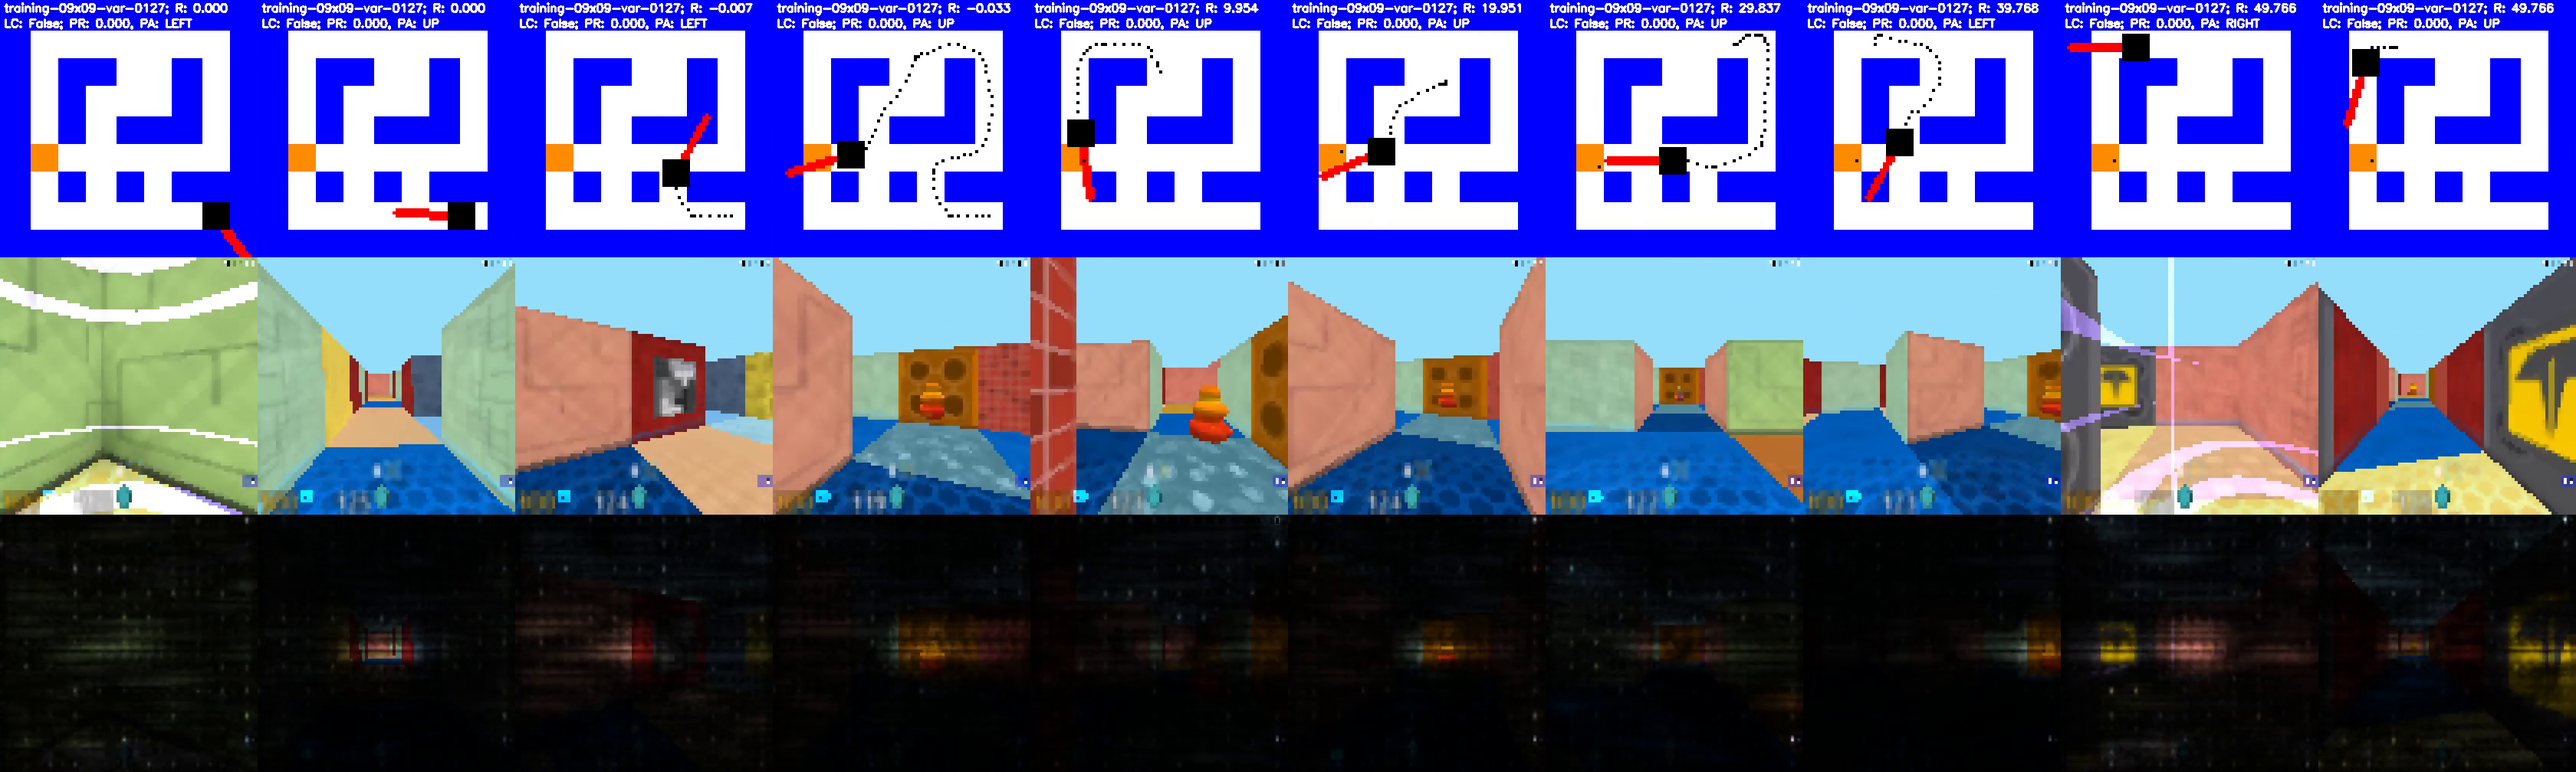
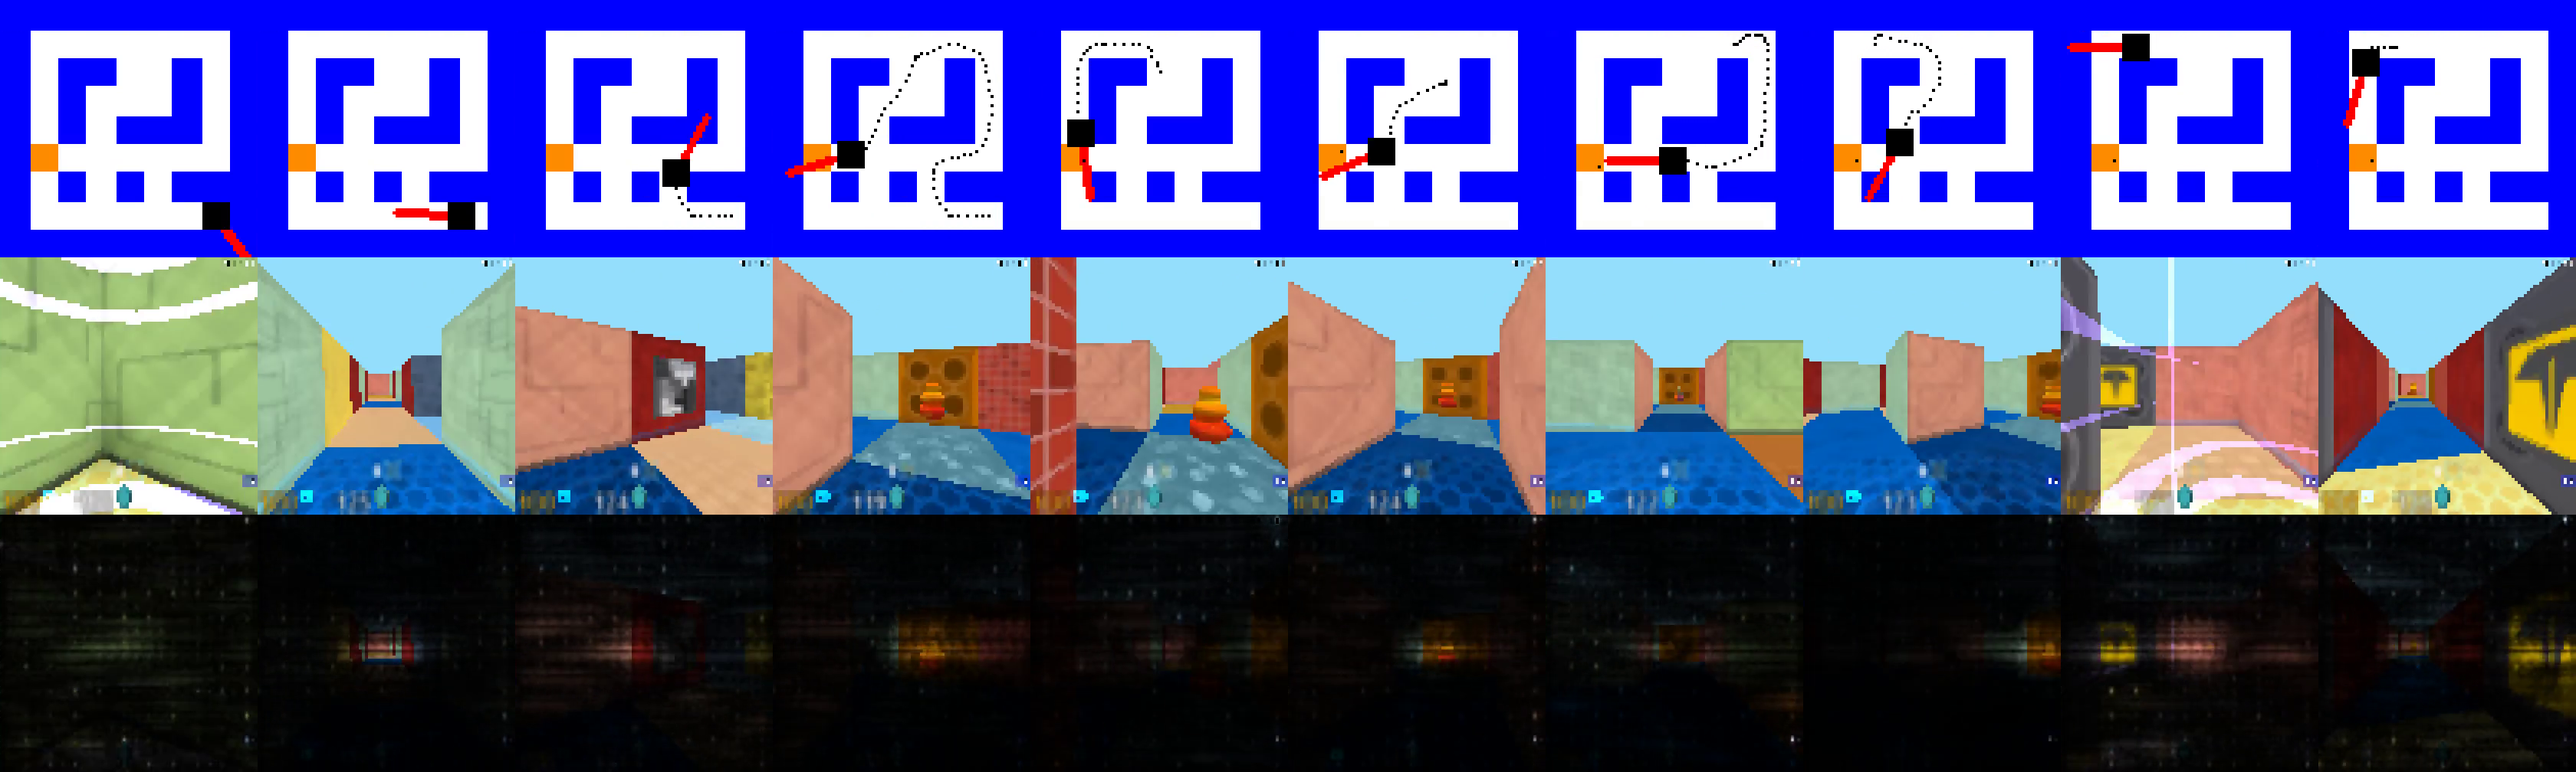
remove text description on top of visualization by overriding it with blue color.

Changed region(s): [[0.0, 0.0, 1.0, 0.0615]]

diff --git a/gennav/experiments.tex b/gennav/experiments.tex
@@ -72,27 +72,39 @@ paths to reach the goal. The qualitative results for the evaluation are shown
 in Fig~\ref{fig:planning-qualitative}.
 
 \subsubsection{Square map}
-A square map is the simplest possible map with two paths to the goal.
-% 2. We start with a simple square map. The map is shown in Fig .
 % 3. In the square map, we find that the path taken is in the
 %    direction of pose initialization. the visualization of path taken is
 %    shown in Fig. . the correlation with of path taken with initial pose
 %    is shown in Fig. . The correlation with shortest path is shown in
 %    Fig. . Hence, the algorithm instead of shortest path planning takes the
 %    the direction in which it is initialized.
-% 
-\subsubsection{Wrench map}
-
+A square map is the simplest possible map with two paths to the goal.
+We evaluate the algorithm trained on 1000 random maps on square map.
+We observe that the agent greedily moves in the direction of
+initialization.
+This may be because of the initial learning which is
+motivated by small rewards of getting apples.
+We compute the percentage of times the agent takes the shortest path over a trial of 100 episodes.
+We find the agent takes the shortest path only $50.4$\% ($\pm 12.8$\%) of the times which is not better than random.
+% Quantitative result taken from:
+% exp-results/planning-09x09-0002/gen_stats_latest_loaded-from-training-1000_acting-on-planning-09x09-0002_vars-True_apples-0.json
+\subsubsection{Wrench map and Goal map}
 % 2.2 To eliminate the correlation with initial orientation, we start
 %     with wrench map. The spawn point is guaranteed to be initialized in
 %     the handle of the wrench. Hence, the decision point is the only
 %     junction in the map where the algorithm either decides to take a
 %     left or a right.
 %     We find no correlation between shortest path and the direction taken. 
-
-\subsubsection{Goal map}
+To eliminate the dependence with initial orientation, we evaluate the algorithm on wrench map as shown in Fig~\ref{fig:planning-qualitative}. We fix in the spawn point at the bottom of the tail so that shortest path is independent of the spawn orientation.
+The decision about the shortest path is made at the junction where the agent can either chose to go left or right.
+We find that the agent is taking shortest path only $32.9$\% ($\pm 25.1$\%) of the times which is again to better than random.
+% Quantitative result taken from:
+% exp-results/planning-09x09-0004/gen_stats_latest_loaded-from-training-1000_acting-on-planning-09x09-0004_vars-True_apples-0.json
 
 % Goal map provides a similar independence from starting orientation
 % but the penalty for choosing the wrong path is much higher than the
 % wrench map. 
+Similarly, goal map (Fig~\ref{fig:planning-qualitative}) provides decision point indpendent of the initial orientation, but it penalizes wrong path more than the wrench map $42.6$\% ($\pm 35.1$\%) of the times which is again no better than random.
+% Quantitative result taken from:
+% exp-results/planning-09x09-0006/gen_stats_latest_loaded-from-training-1000_acting-on-planning-09x09-0006_vars-True_apples-0.json
 % 

diff --git a/gennav/py/process.py b/gennav/py/process.py
@@ -365,12 +365,16 @@ def video_to_snapshot(source
                           , "00:00:19.20"
                           , "00:00:20.12"
                           , "00:00:20.70"
-                      ]):
+                      ]
+                      , text_header_height = 40
+                      , blue = [255, 0, 0]):
     import cv2
     total_img = []
     for ts in timestamps:
         img = get_img_from_video(source, ts)
         width = img.shape[1]
+        # override first 40 rows with blue color
+        img[:text_header_height, :width/3] = blue
         total_img.append(
             np.vstack((img[:, :width/3],
                        img[:, width/3:2*width/3], img[:, 2*width/3:])))
